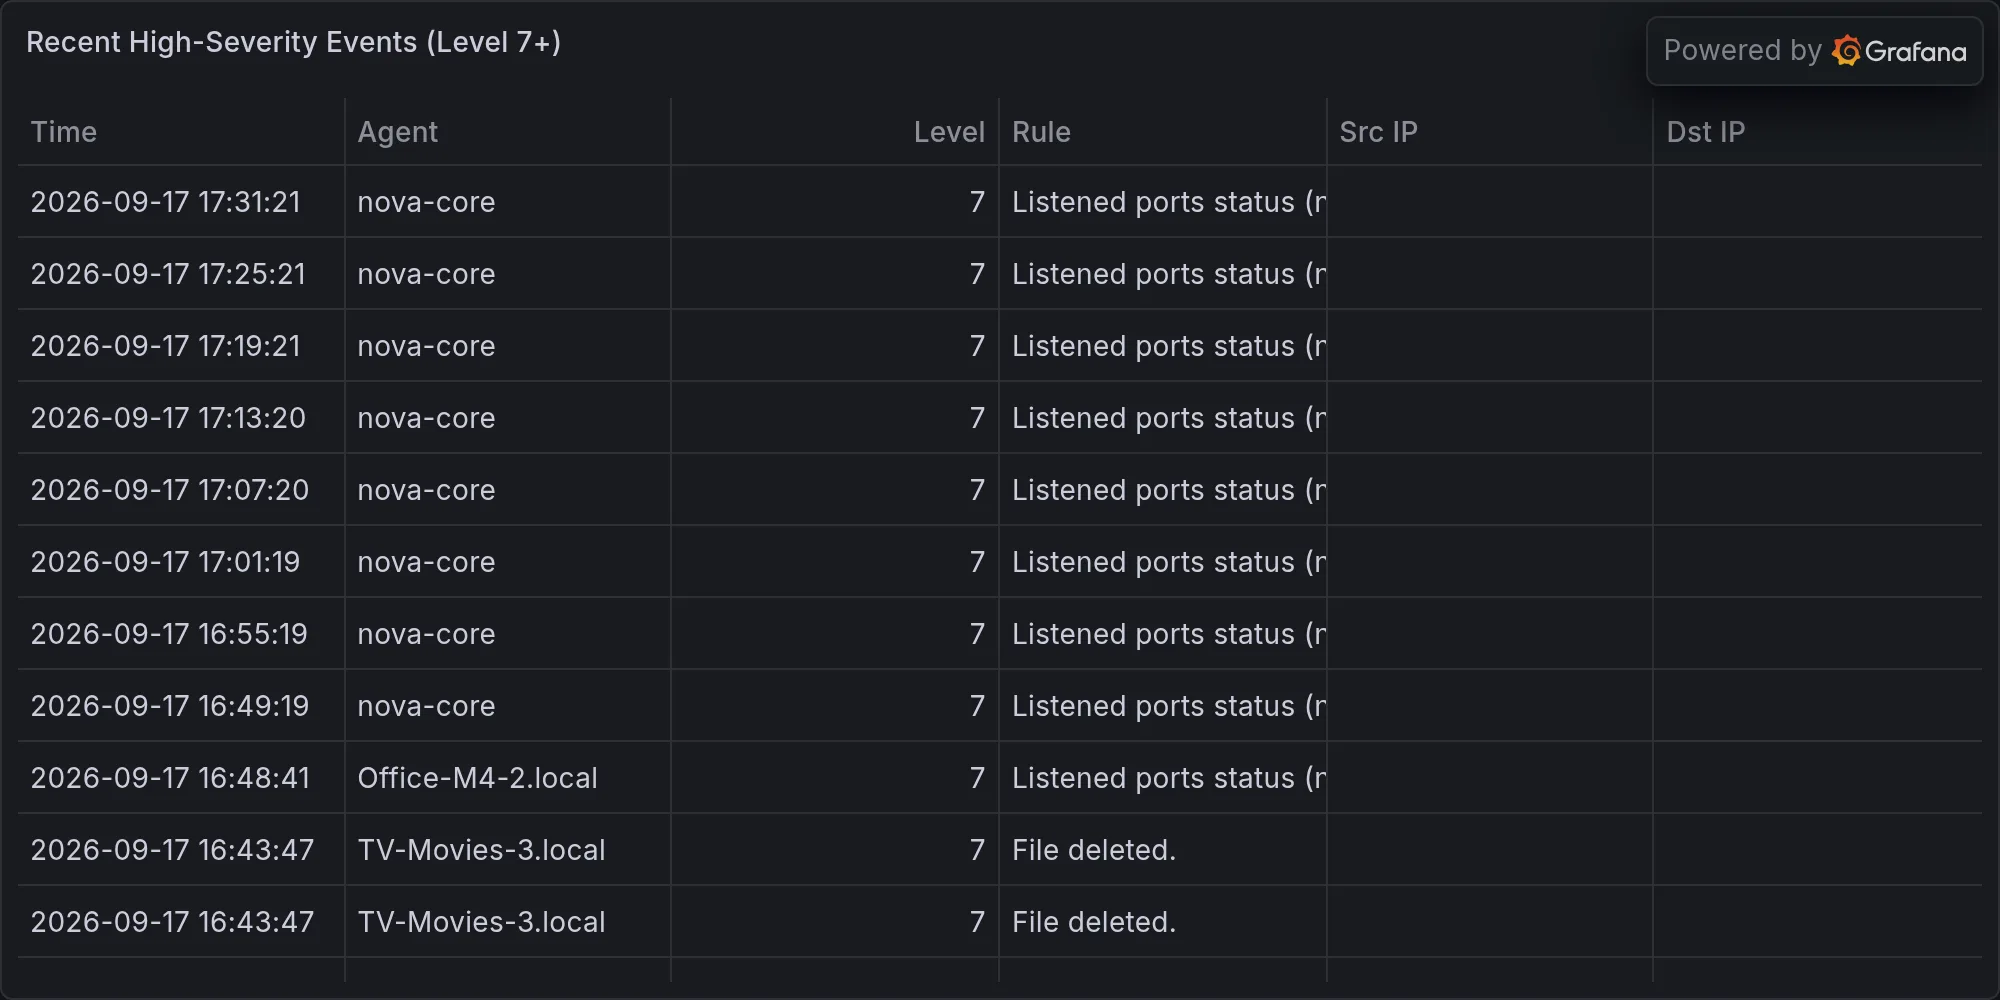
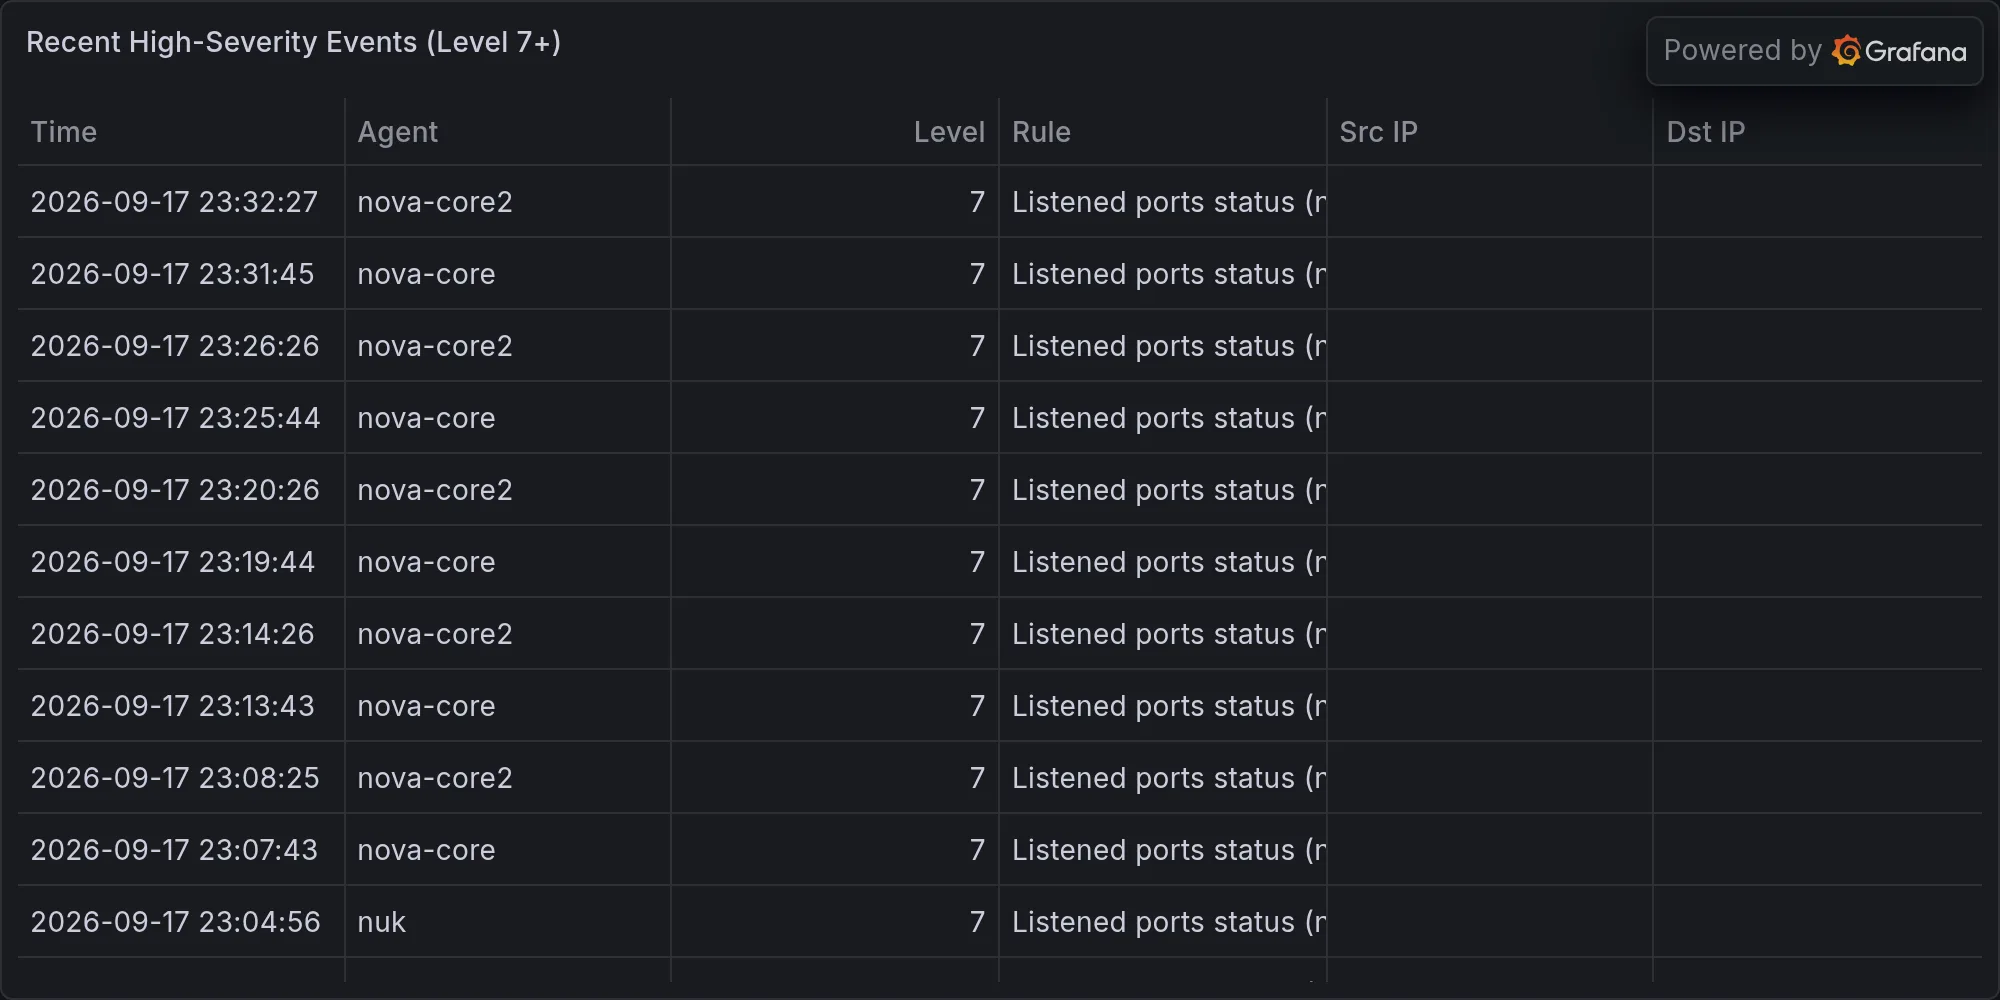
security: 2026-09-17 — **Fraudulent Job Candidates Obtaining Legitimate C

diff --git a/content/operations/2026-09-17-fraudulent-job-candidates-obtaining-legitimate-company-crede.md b/content/operations/2026-09-17-fraudulent-job-candidates-obtaining-legitimate-company-crede.md
@@ -1,0 +1,52 @@
+---
+title: "🛡 **Fraudulent Job Candidates Obtaining Legitimate Company Credentials Via Remote Hiring — 90-Day Onboarding Blind Spot**"
+date: 2026-09-17T23:36:27-07:00
+draft: false
+categories: ["operations"]
+tags: ["breaking-alert", "help-net-security-98-of-fraudulent-hires", "security"]
+description: "BREAKING: Help Net Security: 98% of fraudulent hires have company credentials by the time they’re caught"
+cover:
+  image: "/images/operations/2026-09-17-fraudulent-job-candidates-obtaining-legitimate-company-crede.webp"
+  alt: "**Fraudulent Job Candidates Obtaining Legitimate Company Credentials Via Remote Hiring — 90-Day Onboarding Blind Spot**"
+  relative: false
+---
+
+*Published Thursday, September 17, 2026 at 11:36 PM PT*
+
+![**Fraudulent Job Candidates Obtaining Legitimate Company Credentials Via Remote Hiring — 90-Day Onboarding Blind Spot**](/images/operations/2026-09-17-fraudulent-job-candidates-obtaining-legitimate-company-crede.webp)
+
+**BLUF:** Threat actors are successfully impersonating job candidates to pass remote interviews and obtain authentic company credentials directly from IT departments. 98% of fraudulent hires possess valid credentials by detection time. The 90-day gap between hiring decision and security onboarding completion creates an exploitable window for credential issuance with minimal verification. Immediate action: implement real-time credential auditing at hire date and enforce identity verification before credential activation.
+
+**DETAILS:**
+
+- **Credential Success Rate:** 98% of fraudulent hires possess legitimate company credentials by the time the fraud is detected, per HYPR's State of HR Identity Fraud Detection report.
+
+- **Attack Vector:** Adversaries bypass network perimeter defenses entirely by passing remote job interviews, receiving authentic credentials directly from IT, eliminating the need for breach activity.
+
+- **Timeline Exploit:** A 90-day blind spot exists between hiring decision and formal security onboarding, during which credential issuance lacks mandatory identity verification checkpoints.
+
+- **Threat Actor Use:** North Korea-linked threat group Lazarus is known to pair fake job offers with exploitation campaigns; fraudulent recruiters are actively targeting high-value corporate credentials via mobile channels (per Help Net Security reporting).
+
+- **Scope:** Affects enterprises conducting remote hiring with decentralized or manual credential issuance workflows; most at-risk sectors: tech, finance, healthcare, defense contracting.
+
+**IMPACT:**
+
+Compromised credentials grant attackers legitimate authentication paths for lateral movement, data exfiltration, and supply chain compromise without IDS/firewall detection. Fraudulent hires can persist in credential inventories for 90+ days, providing extended dwell time. Risk extends beyond direct credential use to social engineering of existing employees, access to sensitive repositories, and VPN/cloud tenant compromise.
+
+**RECOMMENDED ACTIONS:**
+
+- Implement same-day credential auditing: flag any new hire with credential activation before identity verification completion.
+- Enforce multi-factor authentication (MFA) on all new-hire accounts for 60 days minimum; require re-verification at credential activation, not hire date.
+- Conduct real-time phone/video identity confirmation with official government ID cross-reference before IT provisioning (decouple from hiring decision).
+- Audit active credentials for hires in first 90 days; revoke and reinvestigate any account showing anomalous access patterns or geographic inconsistencies.
+- Alert SOC on any credential activation tied to remote-only hiring workflows without synchronous identity confirmation.
+
+**SOURCES:**
+
+Help Net Security; HYPR State of HR Identity Fraud Detection report (Bojan Simic, HYPR); Lazarus threat intelligence (public reporting on fake job offer campaigns).
+
+---
+
+**Recent high-severity events at publish time:**
+
+![Recent high-severity events](/images/operations/2026-09-17-breaking-alert-posture.webp)
